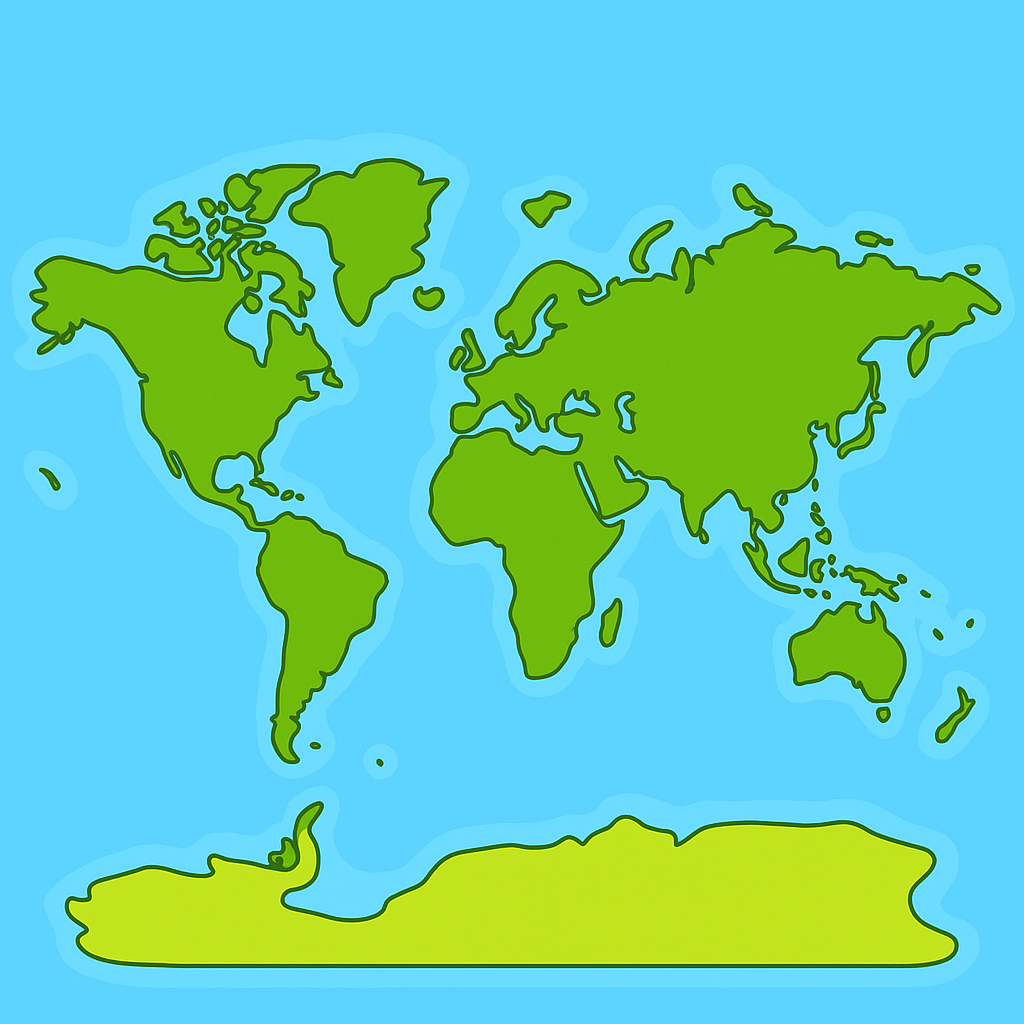
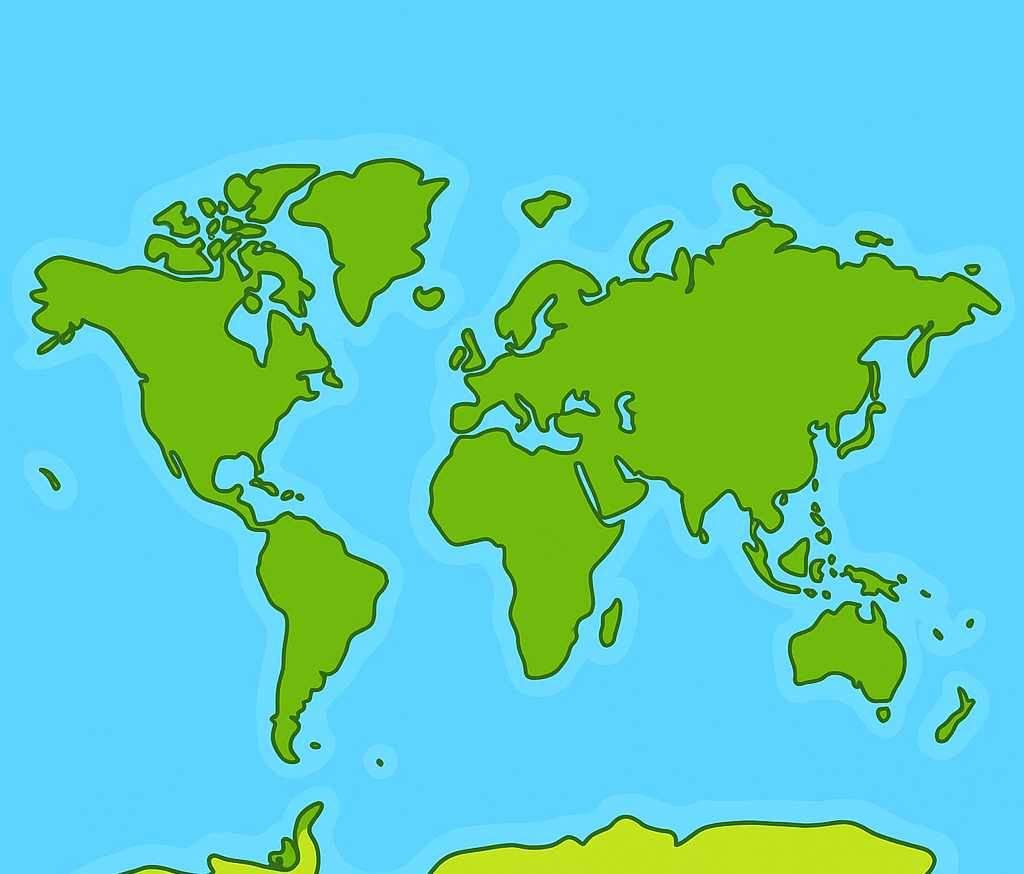
Refactor StickerBookScreen to StatefulWidget and enhance functionality with conquest tracking

diff --git a/lib/widgets/menu_design.dart b/lib/widgets/menu_design.dart
@@ -4,23 +4,17 @@ import 'package:flutter_screenutil/flutter_screenutil.dart';
 import 'package:audioplayers/audioplayers.dart';
 import '../themes/colors.dart';
 
+/// Player global (não mexer aqui) …
 final AudioPlayer globalMenuPlayer = AudioPlayer();
 bool globalSoundStarted = false;
 bool globalSoundPaused = false;
 bool isMenuMuted = false;
 
 Future<void> pauseMenuMusic() async {
-  if (!globalSoundPaused) {
-    await globalMenuPlayer.pause();
-    globalSoundPaused = true;
-  }
+  /* … */
 }
-
 Future<void> resumeMenuMusic() async {
-  if (!isMenuMuted && globalSoundPaused) {
-    await globalMenuPlayer.resume();
-    globalSoundPaused = false;
-  }
+  /* … */
 }
 
 class MenuDesign extends StatefulWidget {
@@ -31,15 +25,19 @@ class MenuDesign extends StatefulWidget {
   final VoidCallback? onHomePressed;
   final bool hideSun;
 
+  /// permite receber um background “por baixo” da curva verde
+  final Widget? background;
+
   const MenuDesign({
-    super.key,
+    Key? key,
     required this.child,
     this.headerText,
     this.topLeftWidget,
     this.showHomeButton = false,
     this.onHomePressed,
     this.hideSun = false,
-  });
+    this.background,
+  }) : super(key: key);
 
   @override
   State<MenuDesign> createState() => _MenuDesignState();
@@ -63,9 +61,7 @@ class _MenuDesignState extends State<MenuDesign> with WidgetsBindingObserver {
   }
 
   Future<void> _toggleMute() async {
-    setState(() {
-      isMenuMuted = !isMenuMuted;
-    });
+    setState(() => isMenuMuted = !isMenuMuted);
     if (isMenuMuted) {
       await globalMenuPlayer.pause();
       globalSoundPaused = true;
@@ -94,9 +90,16 @@ class _MenuDesignState extends State<MenuDesign> with WidgetsBindingObserver {
   Widget build(BuildContext context) {
     return Stack(
       children: [
+        // 0⃣ fundo branco
         Container(color: Colors.white),
+
+        // 1⃣ background opcional (ex: mapa-mundo)
+        if (widget.background != null) widget.background!,
+
+        // 2⃣ a curva verde
         const Positioned(top: 0, left: 0, right: 0, child: TopWave()),
 
+        // 3⃣ Sol atrás do header
         if (!widget.hideSun)
           Positioned(
             top: -50.h,
@@ -109,12 +112,12 @@ class _MenuDesignState extends State<MenuDesign> with WidgetsBindingObserver {
             ),
           ),
 
+        // Título principal e texto secundário
         Positioned(
           top: 8.h,
           left: 0,
           right: 0,
           child: Column(
-            crossAxisAlignment: CrossAxisAlignment.center,
             children: [
               Text(
                 'Mundo das Palavras',
@@ -144,23 +147,23 @@ class _MenuDesignState extends State<MenuDesign> with WidgetsBindingObserver {
           ),
         ),
 
+        // Top left widget (pode ser um ícone custom)
         if (widget.topLeftWidget != null)
           Positioned(top: 10.h, left: 10.w, child: widget.topLeftWidget!),
 
-        // botão Home
+        // Botão home
         if (widget.showHomeButton)
           Positioned(
             top: 10.h,
             left: 10.w,
             child: IconButton(
               icon: Icon(Icons.home, size: 30.sp),
-              padding: EdgeInsets.zero,
-              constraints: const BoxConstraints(),
               tooltip: 'Voltar ao Menu de Jogos',
               onPressed: widget.onHomePressed,
             ),
           ),
 
+        // 4⃣ Conteúdo principal, abaixo da curva
         Positioned.fill(
           child: Padding(
             padding: EdgeInsets.only(top: 40.h),
@@ -168,40 +171,38 @@ class _MenuDesignState extends State<MenuDesign> with WidgetsBindingObserver {
           ),
         ),
 
+        // Botão fechar app
         Positioned(
           top: 10.h,
           right: 10.w,
           child: IconButton(
             icon: Icon(Icons.close_rounded, color: AppColors.red, size: 30.sp),
-            padding: EdgeInsets.zero,
-            constraints: const BoxConstraints(),
             tooltip: 'Fechar App',
             onPressed: () => SystemNavigator.pop(),
           ),
         ),
 
+        // Botão tutorial
         Positioned(
           bottom: 10.h,
           left: 10.w,
           child: IconButton(
             icon: Icon(Icons.info_outline, size: 25.sp),
             tooltip: 'Tutorial',
-            onPressed: () {
-              ScaffoldMessenger.of(context).showSnackBar(
-                SnackBar(
-                  content: Text(
-                    "Tutorial em breve",
-                    style: TextStyle(fontSize: 14.sp, color: AppColors.white),
+            onPressed:
+                () => ScaffoldMessenger.of(context).showSnackBar(
+                  SnackBar(
+                    content: Text(
+                      "Tutorial em breve",
+                      style: TextStyle(fontSize: 14.sp, color: AppColors.white),
+                    ),
+                    backgroundColor: AppColors.green,
                   ),
-                  backgroundColor: AppColors.green,
-                  duration: const Duration(seconds: 2),
-                  behavior: SnackBarBehavior.floating,
                 ),
-              );
-            },
           ),
         ),
 
+        // Botão mute
         Positioned(
           bottom: 10.h,
           right: 10.w,
@@ -220,7 +221,7 @@ class _MenuDesignState extends State<MenuDesign> with WidgetsBindingObserver {
 }
 
 class TopWave extends StatelessWidget {
-  const TopWave({super.key});
+  const TopWave({Key? key}) : super(key: key);
 
   @override
   Widget build(BuildContext context) {

diff --git a/lib/screens/sticker_book.dart b/lib/screens/sticker_book.dart
@@ -1,35 +1,118 @@
 import 'package:flutter/material.dart';
 import 'package:flutter_screenutil/flutter_screenutil.dart';
-import '../themes/colors.dart';
 import '../widgets/menu_design.dart';
 import 'game_menu.dart';
+import '../themes/colors.dart'; // para usar AppColors.green
 
-class StickerBookScreen extends StatelessWidget {
+class StickerBookScreen extends StatefulWidget {
   final dynamic user;
-  const StickerBookScreen({super.key, required this.user});
+  const StickerBookScreen({Key? key, required this.user}) : super(key: key);
+
+  @override
+  State<StickerBookScreen> createState() => _StickerBookScreenState();
+}
+
+class _StickerBookScreenState extends State<StickerBookScreen> {
+  // armazena localmente o nº de conquistas para demo
+  late int _localConquest;
+
+  @override
+  void initState() {
+    super.initState();
+    // inicia com o valor real do usuário
+    _localConquest = (widget.user.conquest as int?) ?? 0;
+  }
+
+  void _unlockOne() {
+    setState(() {
+      _localConquest++;
+      // atualiza o objeto real (e persiste, se for HiveObject)
+      widget.user.conquest = _localConquest;
+      widget.user.save();
+    });
+  }
 
   @override
   Widget build(BuildContext context) {
+    // proporção largura/altura do mapa
+    const double mapAspectRatio = 1.2;
+
+    // decide se cada sticker está desbloqueado
+    final bool monkeyUnlocked = _localConquest >= 2;
+    final bool elephantUnlocked = _localConquest >= 3;
+
     return Scaffold(
+      // ← botão para “destravar” uma conquista a cada toque
+      floatingActionButton: FloatingActionButton(
+        backgroundColor: AppColors.green,
+        child: const Icon(Icons.lock_open),
+        onPressed: _unlockOne,
+      ),
+
       body: MenuDesign(
         headerText: 'Conquistas',
         showHomeButton: true,
         onHomePressed: () {
           Navigator.pushReplacement(
             context,
-            MaterialPageRoute(builder: (_) => GameMenu(user: user)),
+            MaterialPageRoute(builder: (_) => GameMenu(user: widget.user)),
           );
         },
-        child: Stack(
-          children: [
-            // Mapa de fundo, cheio, logo abaixo da ondulação
-            Positioned.fill(
-              top: 40.h,
-              child: Image.asset('assets/images/earth.png', fit: BoxFit.cover),
+        // 1⃣ fundo do mapa, por baixo da curva
+        background: Padding(
+          padding: EdgeInsets.only(top: 90.h),
+          child: Center(
+            child: AspectRatio(
+              aspectRatio: mapAspectRatio,
+              child: Stack(
+                children: [
+                  // o próprio mapa
+                  Positioned.fill(
+                    child: Image.asset(
+                      'assets/images/earth.png',
+                      fit: BoxFit.cover,
+                    ),
+                  ),
+                  // macaco no Brasil
+                  Align(
+                    alignment: const Alignment(-0.35, 0.4),
+                    child: _buildSticker(
+                      'assets/stickers/monkey.jpg',
+                      unlocked: monkeyUnlocked,
+                    ),
+                  ),
+                  // elefante na Índia
+                  Align(
+                    alignment: const Alignment(0.4, 0.2),
+                    child: _buildSticker(
+                      'assets/stickers/elephant.jpg',
+                      unlocked: elephantUnlocked,
+                    ),
+                  ),
+                ],
+              ),
             ),
+          ),
+        ),
+        // não há conteúdo extra sobre o mapa + stickers
+        child: const SizedBox.shrink(),
+      ),
+    );
+  }
 
-            // Aqui poderás posicionar depois os teus stickers...
-          ],
+  Widget _buildSticker(String assetPath, {required bool unlocked}) {
+    return ColorFiltered(
+      colorFilter:
+          unlocked
+              ? const ColorFilter.mode(Colors.transparent, BlendMode.multiply)
+              : const ColorFilter.mode(Colors.grey, BlendMode.saturation),
+      child: Opacity(
+        opacity: unlocked ? 1.0 : 0.1,
+        child: Image.asset(
+          assetPath,
+          width: 30.w,
+          height: 30.h,
+          fit: BoxFit.contain,
         ),
       ),
     );
